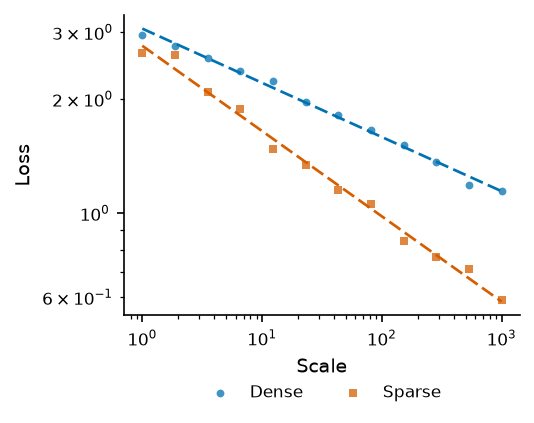
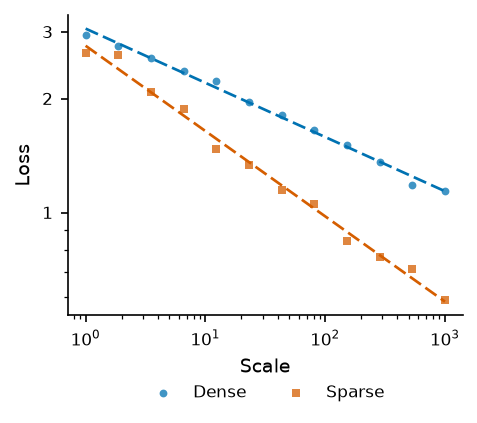
Keep narrow logarithmic scaling labels readable across Matplotlib versions

diff --git a/src/codegen/decorate.ts b/src/codegen/decorate.ts
@@ -453,6 +453,25 @@ export function emitDecoratePanel(spec: FigureSpec, out: string[]): void {
     out.push(`    ax.set_${target}lim(${axis.limits[0]}, ${axis.limits[1]})`);
   }
 
+  if (spec.kind === "scaling_fit") {
+    for (const target of ["x", "y"] as const) {
+      if (spec[target].scale !== "log" || spec[target].percent) continue;
+      out.push(
+        "    # Sub-decade log labels share one exponent on older and newer Matplotlib.",
+        `    _low, _high = sorted(ax.get_${target}lim())`,
+        "    if 0 < _low < _high and np.log10(_high) - np.log10(_low) < 1:",
+        "        _power = int(np.floor(np.log10(_high)))",
+        `        ax.${target}axis.set_major_locator(mticker.MaxNLocator(nbins=3, min_n_ticks=2))`,
+        "        _formatter = mticker.ScalarFormatter(useOffset=False, useMathText=True)",
+        "        _formatter.set_scientific(_power != 0)",
+        "        if _power != 0:",
+        "            _formatter.set_powerlimits((_power, _power))",
+        `        ax.${target}axis.set_major_formatter(_formatter)`,
+        `        ax.${target}axis.set_minor_formatter(mticker.NullFormatter())`,
+      );
+    }
+  }
+
   for (const line of spec.reference_lines ?? []) {
     const style = REFERENCE_STYLES[line.meaning];
     const call = line.axis === "y" ? "axhline" : "axvline";

diff --git a/python/tests/test_scaling_references.py b/python/tests/test_scaling_references.py
@@ -88,6 +88,39 @@ def test_hand_log_parameters_errors_and_actual_curve_are_consistent(emitted):
         plt.close(fig)
 
 
+@pytest.mark.parametrize("low,high", [(1, 2), (900, 1000), (0.9, 1), (1e-100, 2e-100)])
+def test_narrow_log_ticks_use_compact_labels_and_preserve_values(emitted, low, high):
+    rows = pd.DataFrame({"scale": [low, high], "loss": [3, 6]})
+    fig, ax = plt.subplots(figsize=emitted.FIGSIZE)
+    try:
+        emitted.draw_panel(ax, rows)
+        emitted.decorate_panel(ax, rows, None)
+        fig.tight_layout()
+        fig.canvas.draw()
+        expected_power = math.floor(math.log10(max(ax.get_xlim())))
+        from matplotlib.ticker import NullFormatter
+
+        assert isinstance(ax.xaxis.get_minor_formatter(), NullFormatter)
+        assert ax.get_xscale() == "log" and ax.get_yscale() == "log"
+        for axis in (ax.xaxis, ax.yaxis):
+            lower, upper = sorted(axis.get_view_interval())
+            formatter = axis.get_major_formatter()
+            offset = formatter.get_offset().replace(chr(0x2212), "-")
+            exponent = re.search(r"10\^\{(-?\d+)\}", offset)
+            power = int(exponent.group(1)) if exponent else 0
+            if axis is ax.xaxis:
+                assert power == expected_power
+            visible = [value for value in axis.get_majorticklocs() if lower <= value <= upper]
+            assert 2 <= len(visible) <= 4
+            for value in visible:
+                text = (
+                    formatter(value).replace("$", "").replace(r"\mathdefault{", "").replace("}", "")
+                )
+                assert float(text) * 10.0**power == pytest.approx(value, rel=1e-3)
+    finally:
+        plt.close(fig)
+
+
 def test_three_point_t_interval_matches_independent_cauchy_quantile(tmp_path):
     pytest.importorskip("scipy.stats")
     module, _ = generated(tmp_path)

diff --git a/python/tests/test_inspect.py b/python/tests/test_inspect.py
@@ -36,6 +36,21 @@ def test_offscreen_minor_log_labels_do_not_create_false_collisions():
     ax.set_xscale("log")
     ax.set_yscale("log")
     ax.plot([1, 2], [3, 6])
+    # Make hidden labels deliberately collide; keep actual tick labels short
+    # independently of the installed Matplotlib version's default log formatter.
+    from matplotlib.ticker import FuncFormatter
+
+    for axis, limits in ((ax.xaxis, ax.get_xlim()), (ax.yaxis, ax.get_ylim())):
+
+        def format_tick(value, position, limits=limits):
+            return (
+                f"undrawn overlapping minor label {value:g}"
+                if not limits[0] <= value <= limits[1]
+                else f"{value:g}"
+            )
+
+        axis.set_major_formatter(FuncFormatter(format_tick))
+        axis.set_minor_formatter(FuncFormatter(format_tick))
     fig.tight_layout()
     assert not {"labels_collide", "tick_labels_collide"} & codes(fig)
 

diff --git a/pipeline/specs/31-category-identity-contract.md b/pipeline/specs/31-category-identity-contract.md
@@ -1,0 +1,56 @@
+---
+id: 31
+slug: category-identity-contract
+status: ready
+priority: P0
+title: Preserve identifier spelling and align categorical roles without changing raw filters
+source_idea: independent reference matrix 24 confirms CSV identity loss and empty explicit category orders
+---
+
+# Category and identifier identity contract
+
+Measured at b532a6e using actual emitted programs and artists:
+
+- CSV group values `01` and `1` are both inferred as integer 1. Four observations intended
+  for two series draw one line with x `[1,1,2,2]` and y `[10,20,12,22]`.
+- Numeric groups 1/2 ignore explicit string series order `["2","1"]`; a valid claim with
+  subject `"2"`, reference `"1"` is UNTESTED because the named columns do not match.
+- A bar with numeric category values 1/2 and explicit category order `["2","1"]` has no
+  categories and draws no bars. Treating a rendered empty frame as success is insufficient.
+- Existing raw numeric filter `model eq 1` selects all four inferred rows in the `01`/`1`
+  example. Preserve raw author-filter semantics rather than globally changing CSV dtype.
+
+## Contract
+
+Preserve lexical CSV identifiers for declared semantic identity roles: series, facets, paired
+units, repeat units and categorical axes/row keys. Distinct identifiers such as `01` and `1`
+must not merge. Align actual names with string-valued ordering, emphasis, palette locks,
+baselines, claims, annotations, tables and label/report evidence. Apply an explicit consistent
+identity representation for supported typed JSON/Parquet and direct DataFrame inputs too;
+keep missing identifiers missing rather than turning them into a plausible `nan` series.
+
+Filters run on the original typed input before identity adaptation. Numeric measurements,
+continuous/temporal coordinates and their filter semantics must retain their meanings. Record
+and test which representation is filtered; do not use global dtype=str or silently coerce
+measurement roles. Wide reshaping, sorting/filtering, facets and unit grouping must retain
+row-to-identifier correspondence. If a column has incompatible semantic roles, preserve
+separate meanings when supported or refuse the combination explicitly before drawing.
+
+Use a shared boundary adapter rather than unrelated string casts in every mark emitter.
+Different identifiers must remain distinct in the actual marks, pairing/unit counts, series
+order, comparisons, descriptions and exported evidence. Unsupported/empty selections must
+not masquerade as a verified meaningful plot.
+
+## Acceptance evidence
+
+Independent synthetic actual-artist and runtime controls cover leading-zero categories,
+groups/facets, paired/repeated units, numeric series/category order, emphasis/claims/baselines,
+heatmap/confusion/table labels, wide reshaping and representative typed inputs. Assert
+precise values and counts, not just source strings or nonempty output files. Include numeric
+range/membership/equality and string filter preservation, missing/invalid identifiers,
+temporal/continuous measurement preservation and conflicting-role controls.
+
+Refresh affected baselines/public image fingerprints only with verified intended changes.
+Run the seven required gates, gallery checks and fresh offline wheel smoke; visually inspect
+representative outputs, update Obsidian and inspect both GitHub workflows after the small push.
+The broader per-kind/domain/overlay/final-export-width reference matrix 24 remains open.

diff --git a/pipeline/done/30-scaling-fit-reference-contract.md b/pipeline/done/30-scaling-fit-reference-contract.md
@@ -87,3 +87,22 @@ without SciPy and explicitly returns strict incomplete for a requested three-poi
 External connections are blocked after installation; the optional agent smoke passes. CI render
 installs statistics to exercise full conditional intervals. Both GitHub workflows are checked
 after pushing; the complete scientific matrix 24 and final delivery scope remain open.
+
+### Matplotlib compatibility follow-up
+
+The first push b532a6e passes Figure CI 40254352440, but general CI 40254352436 exposes real
+narrow-log tick collisions on Matplotlib 3.10/Python 3.10 (three tests and its installed-wheel
+job fail). All other six jobs pass. This is separate from undrawn-tick phantom collisions.
+Sub-decade non-percent scaling axes now use a few numeric major ticks, one fixed scientific
+exponent where needed and unlabelled minor marks; data/curve coordinates and log scales are
+unchanged. Four display-value references cover normal, boundary-crossing and very small ranges.
+The inspector regression forces its drawn/undrawn labels explicitly instead of depending on a
+version's default formatter, and the real visible-minor-collision control remains.
+
+All seven local gates pass again: 215 Node/353 Python, zero skips, 15 matching baselines,
+16 renders, 25 recipes/seven compositions; Ruff and strict gallery15/15 pass. All eight targeted
+compatibility cases also pass locally with Python3.10.22/Matplotlib3.10.9/NumPy2.2.6/pandas2.3.3.
+The refreshed published image's source/data fingerprints pass and actual plots were reviewed.
+Fresh Python3.12 wheel/no-SciPy offline/agent smoke passes again. Local managed Python3.10
+cannot create its ensurepip environment; clean Python3.10 installation remains a required
+GitHub check rather than a claimed local result. Both workflows are checked after the fix push.

diff --git a/docs/scaling-validation.md b/docs/scaling-validation.md
@@ -69,6 +69,14 @@ the already-correct observation-based claim behavior is retained. A narrow two-p
 also exposed off-screen minor ticks being treated as colliding text. Inspector regressions
 exclude those undrawn labels while still detecting genuine visible minor-label collisions.
 
+Python 3.10 CI also exposed genuine overlapping labels from its older Matplotlib log formatter.
+Sub-decade non-percent scaling axes now use a few major value ticks with a shared scientific
+exponent when needed; the log scale and plotted coordinates stay unchanged. Minor tick marks
+remain, with numeric labels carried by the major ticks. References cover ordinary ranges,
+crossings of a power-of-ten boundary and x near `1e-100`, checking displayed values as well as
+strict two-point rendering. The inspector regression explicitly distinguishes drawn/undrawn
+labels without assuming a particular version's default formatting.
+
 ```sh
 python -m pytest python/tests/test_scaling_references.py python/tests/test_inspect.py -q
 ```

diff --git a/pipeline/implementation-roadmap.md b/pipeline/implementation-roadmap.md
@@ -102,3 +102,10 @@ Milestones may be split further as evidence requires. No checklist item is compl
   fresh offline wheel without optional SciPy. Published inputs and source/data fingerprint
   coverage are committed. The complete 21-kind matrix, CSV identifiers/overlays/final export
   width, naming/versioned release and final audit remain open.
+
+- Scaling compatibility follow-up: b532a6e's Figure CI 40254352440 passed, while general
+  40254352436 exposed genuine older-Matplotlib narrow-log labels on Python3.10. Compact
+  major ticks with a shared exponent preserve plotted values/log geometry, with four new
+  numeric display references. All seven local gates pass again (215 Node/353 Python),
+  strict gallery15/15, eight targeted Python3.10/Matplotlib3.10.9 cases and fresh offline
+  Python3.12 wheel. The complete roadmap and ready identifier contract31 remain open.

diff --git a/pipeline/queue.md b/pipeline/queue.md
@@ -2,11 +2,12 @@
 
 Generated by `npm run queue`. Edit the spec frontmatter, not this file.
 
-Open: 1. Shipped: 29.
+Open: 2. Shipped: 29.
 
 | id | pri | status | title | file |
 | --- | --- | --- | --- | --- |
 | 24 | P0 | ready | Validate scientific quantities and input domains against independent known answers | `24-independent-scientific-references.md` |
+| 31 | P0 | ready | Preserve identifier spelling and align categorical roles without changing raw filters | `31-category-identity-contract.md` |
 
 ## Shipped
 
